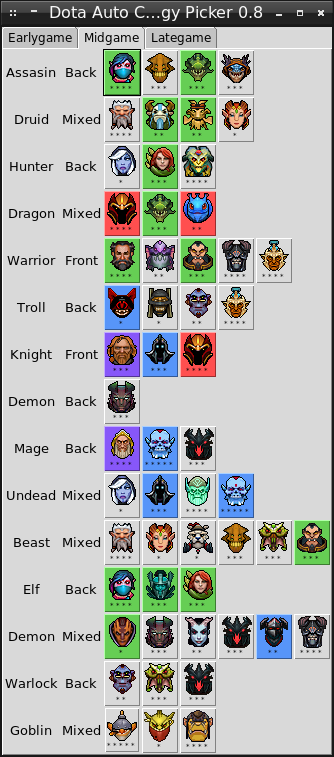
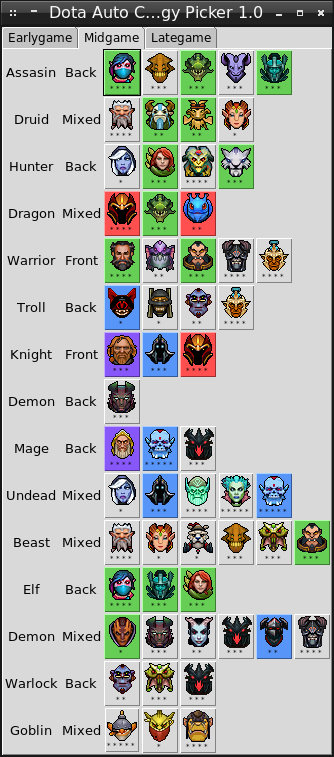
Release 1.0

diff --git a/pieces-picker.py b/pieces-picker.py
@@ -4,7 +4,7 @@ from Tkinter import *
 from csv import reader
 from PIL import ImageTk,Image
 
-_VERSION = "0.9"
+_VERSION = "1.0"
 _PIECES_FILE = "database/csv/pieces.csv"
 _SPECIES_FILE = "database/csv/species.csv"
 _CLASSES_FILE = "database/csv/classes.csv"

diff --git a/strategy-picker.py b/strategy-picker.py
@@ -4,7 +4,7 @@ from Tkinter import *
 from csv import reader
 from PIL import ImageTk,Image
 
-_VERSION = "0.9"
+_VERSION = "1.0"
 _PIECES_FILE = "database/csv/pieces.csv"
 _COMBOS_FILE = "database/csv/strategies.csv"
 

diff --git a/combo-picker.py b/combo-picker.py
@@ -5,7 +5,7 @@ from Tkinter import *
 from csv import reader
 from PIL import ImageTk,Image
 
-_VERSION = "0.9"
+_VERSION = "1.0"
 _PIECES_FILE = "database/csv/pieces.csv"
 _COMBOS_FILE = "database/csv/combos.csv"
 

diff --git a/items-picker.py b/items-picker.py
@@ -4,7 +4,7 @@ from Tkinter import *
 from csv import reader
 from PIL import ImageTk,Image
 
-_VERSION = "0.9"
+_VERSION = "1.0"
 _ITEMS_FILE = "database/csv/items.csv"
 
 _DEFAULT_COLOR = "#d9d9d9"

diff --git a/README.md b/README.md
@@ -1,4 +1,4 @@
-# Dota Auto Chess Picker 0.9 version
+# Dota Auto Chess Picker 1.0 version
 
 Dota Auto Chess Picker is a utility for showing combinations of pieces and items for the [Dota Auto Chess](https://steamcommunity.com/sharedfiles/filedetails/?id=1613886175) custom game. You can use the picker during the game (as a hint) or for planning your strategies.
 

diff --git a/CHANGELOG.md b/CHANGELOG.md
@@ -1,3 +1,6 @@
+* version 1.0
+  - Add new pieces and species according to the 26.02.2019 patch.
+
 * version 0.9
   - Highlight the duplicated items in the item receipt by the yellow color.
   - Rework widgets geometry in the items-picker.py script.
